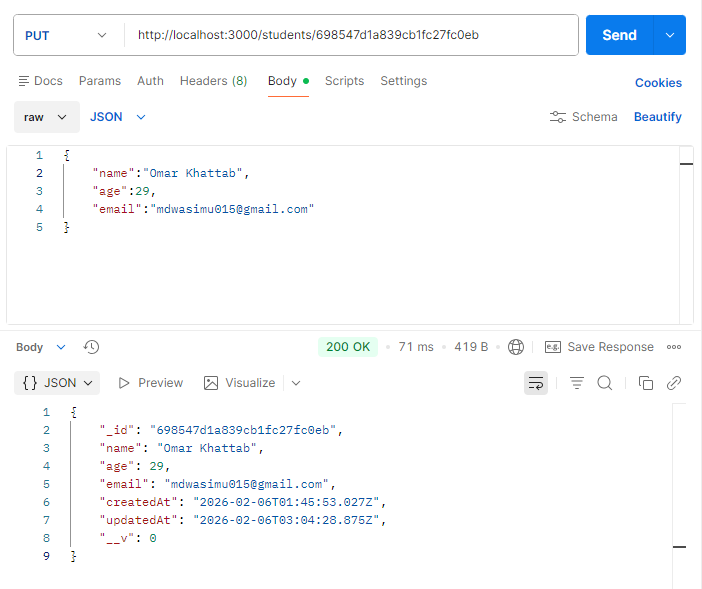
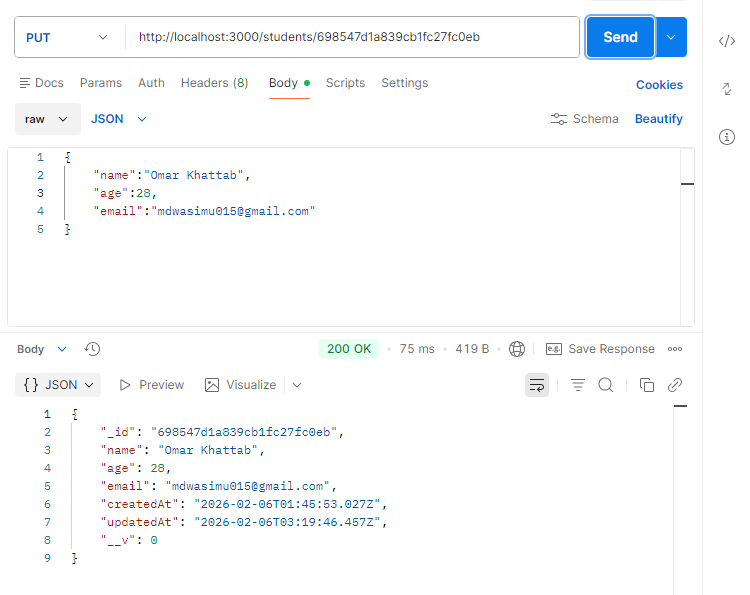
put,patch,delete

diff --git a/src/students/students.service.ts b/src/students/students.service.ts
@@ -22,8 +22,24 @@ export class StudentsService {
         return this.studentModel.findById(id).exec();
     }
 
+    // Complete update with overwrite
     async updateStudent(id: string, data: Partial<Student>): Promise<Student | null> {
-        return this.studentModel.findByIdAndUpdate(id, data, { new: true }).exec();
+       // return this.studentModel.findByIdAndUpdate(id, data, { new: true }).exec();
+       const update = await this.studentModel.findByIdAndUpdate(id, {
+        name: data.name ?? null,
+        age: data.age ?? null,
+        email: data.email ?? null,
+       }, { overwrite: true, new: true });
+       return update;
+    }
+
+    // Partial update
+    async patchStudent(id: string, data: Partial<Student>): Promise<Student | null> {
+        return this.studentModel.findByIdAndUpdate(id, { $set: data }, { new: true }).exec();
+    }
+
+    async deleteStudent(id: string): Promise<Student | null> {
+        return this.studentModel.findByIdAndDelete(id).exec();
     }
 
 }

diff --git a/src/students/students.controller.ts b/src/students/students.controller.ts
@@ -1,4 +1,4 @@
-import { Body, Controller, Get, Param, Post, Put } from '@nestjs/common';
+import { Body, Controller, Delete, Get, Param, Patch, Post, Put } from '@nestjs/common';
 import { StudentsService } from './students.service';
 import { Student } from './students.schema';
 
@@ -24,6 +24,16 @@ export class StudentsController {
     @Put(':id')
     async updateStudent(@Param('id') id: string, @Body() data: Partial<Student>) {
         return this.studentsService.updateStudent(id, data);
+    }
+
+    @Delete(':id')
+    async deleteStudent(@Param('id') id: string) {
+        return this.studentsService.deleteStudent(id);
+    }
+
+    @Patch(':id')
+    async patchStudent(@Param('id') id: string, @Body() data: Partial<Student>) {
+        return this.studentsService.patchStudent(id, data);
     }
 
 }

diff --git a/README.md b/README.md
@@ -1577,3 +1577,112 @@ export class StudentsController {
 ---
 ###### partialy data update
 ![update](/public/img/studentsupdate.png)
+###### mongodb
+![update](/public/img/mongodb2.png)
+
+
+## Topic 19: Update MongoDB Data using PATCH API, DELETE & PUT
+
+```bash
+# students.service.ts
+import { Injectable } from '@nestjs/common';
+import { InjectModel } from '@nestjs/mongoose';
+import { Student, StudentDocument } from './students.schema';
+import { Model } from 'mongoose';
+
+@Injectable()
+export class StudentsService {
+    constructor(
+        @InjectModel(Student.name) private studentModel: Model<StudentDocument>
+    ) {}
+
+    async createStudent(data: Partial<Student>): Promise<Student> {
+        const newStudent = new this.studentModel(data);
+        return newStudent.save();
+    }
+
+    async getAllStudents(): Promise<Student[]> {
+        return this.studentModel.find().exec();
+    }
+
+    async getStudentById(id: string): Promise<Student | null> {
+        return this.studentModel.findById(id).exec();
+    }
+
+    // Complete update with overwrite
+    async updateStudent(id: string, data: Partial<Student>): Promise<Student | null> {
+       // return this.studentModel.findByIdAndUpdate(id, data, { new: true }).exec();
+       const update = await this.studentModel.findByIdAndUpdate(id, {
+        name: data.name ?? null,
+        age: data.age ?? null,
+        email: data.email ?? null,
+       }, { overwrite: true, new: true });
+       return update;
+    }
+
+    // Partial update
+    async patchStudent(id: string, data: Partial<Student>): Promise<Student | null> {
+        return this.studentModel.findByIdAndUpdate(id, { $set: data }, { new: true }).exec();
+    }
+
+    async deleteStudent(id: string): Promise<Student | null> {
+        return this.studentModel.findByIdAndDelete(id).exec();
+    }
+
+}
+```
+---
+
+```bash
+# students.controller.ts
+import { Body, Controller, Delete, Get, Param, Patch, Post, Put } from '@nestjs/common';
+import { StudentsService } from './students.service';
+import { Student } from './students.schema';
+
+@Controller('students')
+export class StudentsController {
+    constructor(private readonly studentsService: StudentsService) {}
+
+    @Post()
+    async createStudent(@Body() data: Partial<Student>) {
+        return this.studentsService.createStudent(data);
+    }
+
+    @Get()
+    async getAllStudents() {
+        return this.studentsService.getAllStudents();
+    }
+
+    @Get(':id')
+    async getStudentById(@Param('id') id: string) {
+        return this.studentsService.getStudentById(id);
+    }
+
+    @Put(':id')
+    async updateStudent(@Param('id') id: string, @Body() data: Partial<Student>) {
+        return this.studentsService.updateStudent(id, data);
+    }
+
+    @Delete(':id')
+    async deleteStudent(@Param('id') id: string) {
+        return this.studentsService.deleteStudent(id);
+    }
+
+    @Patch(':id')
+    async patchStudent(@Param('id') id: string, @Body() data: Partial<Student>) {
+        return this.studentsService.patchStudent(id, data);
+    }
+
+}
+```
+---
+###### Partial update
+![patch](/public/img/patch.png)
+###### Partially update korle PUT method baki properties gulote value null ashbe
+![patch](/public/img/put.png)
+###### Complete update
+![patch](/public/img/put2.png)
+###### Delete
+![patch](/public/img/delete.png)
+
+
